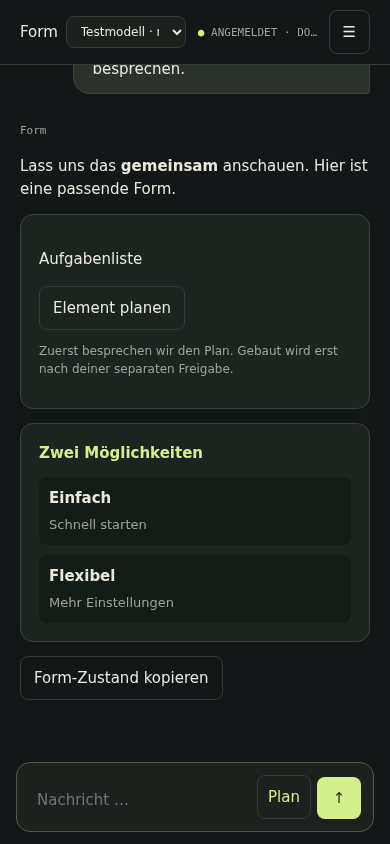
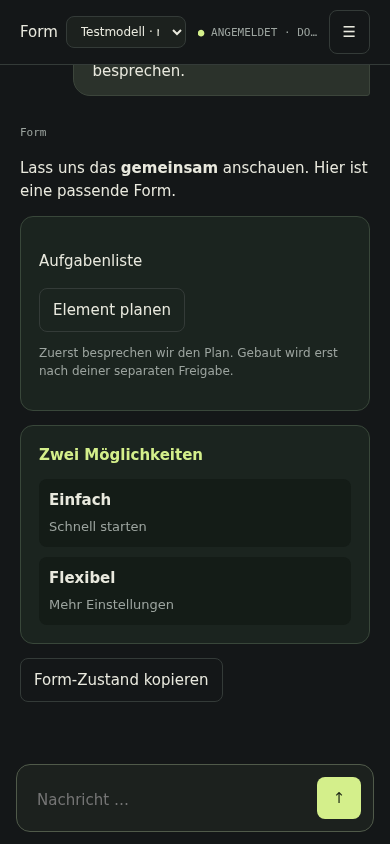
fix(planning): replace global Plan with contextual guided entry

diff --git a/index.html b/index.html
@@ -114,7 +114,7 @@ dialog::backdrop{background:rgba(10,12,11,.7)}
 @media(prefers-reduced-motion:reduce){*,*::before,*::after{scroll-behavior:auto!important;animation:none!important;transition:none!important}.sketch path,.sketch circle,.sketch line,.sketch polygon{stroke-dashoffset:0}.think .wire line{opacity:1;transform:none}.site .block,.site .trolley,.site .load{animation:none!important;opacity:1;transform:none}}
 .build-model{display:flex;align-items:center;gap:10px;margin:14px 0;font-size:12px;color:var(--muted)}.build-model select{max-width:220px;background:#141b19;border:1px solid var(--line);color:var(--ink);border-radius:8px;padding:8px}
 #formsdialog,#usersdialog{max-width:min(850px,94vw)}#formsdialog .dlghead,#usersdialog .dlghead{position:sticky;top:0;background:#1b211d;padding:12px 0;z-index:2}.library-row details{margin:12px 0}.management-form label:has(input[type=checkbox]){display:flex;align-items:center;gap:8px}.form-preview.form-metric>p{font-size:16px}
-.settings-grid{display:grid;grid-template-columns:repeat(2,minmax(0,1fr));gap:12px;margin-top:20px}.settings-grid button{padding:20px;text-align:left}.management-form{display:grid;gap:14px;margin-top:24px}.management-form label{display:grid;gap:6px;font-size:13px}.management-form input:not([type=checkbox]),.management-form textarea,.management-form select{width:100%;background:#151b1b;color:var(--ink);border:1px solid var(--line);padding:10px;border-radius:8px;font:inherit}.library-row,.user-row{border:1px solid var(--line);border-radius:12px;padding:16px;margin:14px 0}.row-actions{display:flex;gap:8px;flex-wrap:wrap}.row-actions button{font-size:12px}.danger{color:#edaa9d}#formsdialog,#usersdialog{width:min(850px,94vw);max-height:90dvh;overflow:auto}#userslist{max-height:none}#formslist{display:grid;grid-template-columns:repeat(2,minmax(0,1fr));gap:12px}#formslist .library-row{margin:0;min-width:0}#planbtn{color:var(--lime);padding:10px;flex-shrink:0}.chat-form{border:1px solid #39473a;background:#1b241f;border-radius:13px;padding:18px;margin:14px 0;animation:form-appear .28s ease-out;overflow-wrap:anywhere}.chat-form>strong{color:var(--lime)}.chat-form p{white-space:pre-wrap;line-height:1.5}.form-items{display:grid;gap:10px;margin-top:12px}.form-item{padding:10px;background:#141c17;border-radius:8px}.form-item p{margin:6px 0 0;font-size:13px;color:var(--muted)}.form-compare .form-items{grid-template-columns:repeat(2,minmax(0,1fr))}.form-metric>p{font-size:28px}.form-list input{margin-right:8px;accent-color:var(--lime)}.form-preview{font-size:12px;padding:12px}.form-preview .form-items{display:none}.form-proposal{border-style:dashed}@keyframes form-appear{from{opacity:0;transform:translateY(8px)}to{opacity:1;transform:none}}@media(prefers-reduced-motion:reduce){.chat-form{animation:none}}@media(max-width:600px){#formslist{grid-template-columns:1fr}.form-compare .form-items{grid-template-columns:1fr}.dlg{padding:18px}.composer{gap:6px}.composer textarea{min-width:0}.row-actions button{min-height:40px}}
+.settings-grid{display:grid;grid-template-columns:repeat(2,minmax(0,1fr));gap:12px;margin-top:20px}.settings-grid button{padding:20px;text-align:left}.management-form{display:grid;gap:14px;margin-top:24px}.management-form label{display:grid;gap:6px;font-size:13px}.management-form input:not([type=checkbox]),.management-form textarea,.management-form select{width:100%;background:#151b1b;color:var(--ink);border:1px solid var(--line);padding:10px;border-radius:8px;font:inherit}.library-row,.user-row{border:1px solid var(--line);border-radius:12px;padding:16px;margin:14px 0}.row-actions{display:flex;gap:8px;flex-wrap:wrap}.row-actions button{font-size:12px}.danger{color:#edaa9d}#formsdialog,#usersdialog{width:min(850px,94vw);max-height:90dvh;overflow:auto}#userslist{max-height:none}#formslist{display:grid;grid-template-columns:repeat(2,minmax(0,1fr));gap:12px}#formslist .library-row{margin:0;min-width:0}.chat-form{border:1px solid #39473a;background:#1b241f;border-radius:13px;padding:18px;margin:14px 0;animation:form-appear .28s ease-out;overflow-wrap:anywhere}.chat-form>strong{color:var(--lime)}.chat-form p{white-space:pre-wrap;line-height:1.5}.form-items{display:grid;gap:10px;margin-top:12px}.form-item{padding:10px;background:#141c17;border-radius:8px}.form-item p{margin:6px 0 0;font-size:13px;color:var(--muted)}.form-compare .form-items{grid-template-columns:repeat(2,minmax(0,1fr))}.form-metric>p{font-size:28px}.form-list input{margin-right:8px;accent-color:var(--lime)}.form-preview{font-size:12px;padding:12px}.form-preview .form-items{display:none}.form-proposal{border-style:dashed}@keyframes form-appear{from{opacity:0;transform:translateY(8px)}to{opacity:1;transform:none}}@media(prefers-reduced-motion:reduce){.chat-form{animation:none}}@media(max-width:600px){#formslist{grid-template-columns:1fr}.form-compare .form-items{grid-template-columns:1fr}.dlg{padding:18px}.composer{gap:6px}.composer textarea{min-width:0}.row-actions button{min-height:40px}}
 
 #sidebar{gap:14px}@media(max-height:650px){#sidebar{gap:8px;padding:16px}#sidebar .brand{font-size:22px}#sidebar .element-subnav{margin-bottom:0}}
 /* Unified management surfaces: scoped away from generated Element iframes. */
@@ -122,4 +122,4 @@ dialog input:not([type=checkbox]):not([type=radio]),dialog textarea,dialog selec
 dialog textarea{resize:none;min-height:88px;max-height:360px;overflow-y:auto}dialog label{display:grid;gap:7px;margin:12px 0;font-size:13px}dialog label:has(input[type=checkbox]){display:flex;align-items:center;gap:9px}dialog form{min-width:0}dialog input[type=checkbox]{accent-color:var(--lime)}dialog .library-row{overflow-wrap:anywhere}#buglist textarea{margin:12px 0}#buglist select{max-width:220px}.profile-button{border:0;text-align:left;padding:8px 0;color:var(--muted)}.sidebottom .tools{display:block}.sidebottom .tools button{width:100%}.library-nav{flex-shrink:0;text-align:left}.element-subnav{display:flex;gap:6px;flex-shrink:0;margin:0 0 10px}.element-subnav[hidden]{display:none}.element-subnav button{flex:1;padding:7px;font-size:12px}
 #preferences{width:min(1000px,96vw);height:min(800px,92dvh);max-width:none;padding:0;overflow:hidden}#preferences>.dlg{height:100%;display:flex;flex-direction:column;padding:24px;min-height:0}.settings-layout{display:grid;grid-template-columns:190px minmax(0,1fr);gap:28px;flex:1;min-height:0;margin-top:22px}.settings-nav{display:flex;flex-direction:column;gap:6px;overflow:auto}.settings-nav button{text-align:left;flex-shrink:0;border-color:transparent}.settings-nav button[aria-current=true]{background:#293426;border-color:#61754b;color:var(--lime)}.settings-content{overflow:auto;min-width:0;min-height:0;padding:0 8px 20px 0;overscroll-behavior:contain}#preferences .settings-pane{position:static;margin:0;width:100%;max-width:none;max-height:none;border:0;padding:0;background:transparent;color:inherit;box-shadow:none;overflow:visible}#preferences .settings-pane[hidden]{display:none!important}#preferences .settings-pane:not([hidden]){display:block}#preferences .settings-pane>.dlg{padding:0}#preferences .settings-pane h2{margin-top:0;font-size:20px}#preferences .settings-pane .dlghead{margin-bottom:20px}.settings-pane form{display:grid;gap:4px}.settings-pane form>button{justify-self:start;margin-top:10px}.settings-pane .notice{overflow-wrap:anywhere}.settings-pane .notice button{margin:4px}
 @media(max-width:600px){#preferences{width:100vw;height:100dvh;max-height:100dvh;border-radius:0;border:0}#preferences>.dlg{padding:18px 16px}.settings-layout{grid-template-columns:1fr;grid-template-rows:auto minmax(0,1fr);gap:18px;margin-top:16px}.settings-nav{display:grid;grid-template-columns:repeat(2,minmax(0,1fr));overflow:visible;padding-bottom:0}.settings-nav button{white-space:normal;min-height:42px;padding:8px 10px;font-size:13px}.settings-content{padding-right:0}.settings-pane .dlghead{align-items:center}.settings-pane .dlghead strong{min-width:0}.settings-pane textarea{font-size:16px}}
-</style></head><body><div class="app"><aside id="sidebar"><div class="brand"><span>⌑</span>form</div><button id="new">＋ Neuer Chat</button><div class="navtabs" role="tablist" aria-label="Sammlungen"><button id="elements-tab" role="tab" aria-selected="false" aria-controls="elements-list">Elemente</button><button id="chats-tab" role="tab" aria-selected="true" aria-controls="sessions">Chats</button></div><nav class="sessions hidden" id="elements-list" role="tabpanel" aria-labelledby="elements-tab"></nav><nav class="sessions" id="sessions" role="tabpanel" aria-labelledby="chats-tab" aria-label="Gespeicherte Chats"></nav><div class="sidebottom"><div class="tools"><button id="formsbtn">Formen</button><button id="preferencesbtn">Einstellungen</button><button id="bugbtn">Bug melden</button><button id="logout">Abmelden</button></div><p><span id="whoami"></span></p></div></aside><main><header><div style="display:flex;align-items:center;gap:15px"><span>Form</span></div><div style="display:flex;align-items:center;gap:12px"><select id="model" class="hidden" aria-label="Chatmodell wählen"></select><button id="settingsbtn" aria-label="Modelle verwalten">⚙</button><span class="status"><b>●</b> <span id="statuslabel">STARTET</span></span></div><button id="mobile" aria-label="Sitzungen öffnen" aria-expanded="false">☰</button></header><div id="feed" class="feed" tabindex="0" aria-label="Gespräch"></div><div class="composer-wrap"><div id="quickbar" class="quickbar hidden" aria-label="Angepinnte Elemente"></div><div id="refchip" class="refchip hidden"></div><form id="composer" class="composer"><textarea id="prompt" rows="1" maxlength="2000" aria-label="Nachricht" placeholder="Nachricht …"></textarea><button type="button" id="planbtn" title="Aus der Besprechung einen Blueprint erstellen">Plan</button><button class="send" id="send" aria-label="Nachricht senden">↑</button><button type="button" id="stop" class="hidden">Stoppen</button></form><div id="live" class="sr-only" aria-live="polite"></div></div></main></div><dialog id="login" aria-label="Anmeldung"><div class="dlg"><div class="dlghead"><strong>Form · Anmelden</strong></div><div id="loginerr" class="notice error hidden"></div><form id="loginform"><label>Benutzername <input name="username" required minlength="3" maxlength="32" autocomplete="username"></label><label>Passwort <input name="password" type="password" required autocomplete="current-password"></label><button>Anmelden</button></form><form id="regform" class="hidden"><label>Benutzername <input name="username" required minlength="3" maxlength="32" autocomplete="username"></label><label>Passwort <input name="password" type="password" required minlength="8" maxlength="200" autocomplete="new-password"></label><label>Passwort wiederholen <input name="password2" type="password" required minlength="8" maxlength="200" autocomplete="new-password"></label><button>Registrieren</button></form><div class="ovfoot" style="margin-top:14px"><button id="switchreg" class="hidden">Neu registrieren</button></div></div></dialog><dialog id="settings" aria-label="Modelle verwalten"><div class="dlg"><div class="dlghead"><strong>Modelle</strong><button id="closesettings" aria-label="Einstellungen schliessen">✕</button></div><div id="modellist"></div><form id="addmodel"><div class="eyebrow">Modell hinzufügen</div><label>Bezeichnung <input name="label" required maxlength="60" placeholder="z. B. z.ai"></label><label>Base-URL <input name="baseUrl" required maxlength="200" placeholder="https://api.z.ai/v1"></label><label>Modell-ID <input name="model" required maxlength="100" placeholder="glm-4.6"></label><label>API-Key <input name="apiKey" type="password" required minlength="6" maxlength="400" autocomplete="off"></label><button>Hinzufügen</button></form></div></dialog><dialog id="overlay" aria-label="Elementansicht"><div class="dlg ovdlg" id="ovcontent"></div></dialog><dialog id="mcpdialog" aria-label="MCP-Verbindungen"><div class="dlg"><div class="dlghead"><strong>Verbindungen</strong><button id="mcpclose">✕</button></div><button type="button" id="httpbtn">HTTP / API</button><div id="mcplist"></div><form id="mcpadd"><label>Name<input name="name" required maxlength="80"></label><label>MCP-Adresse<input name="url" type="url" required></label><label>Bearer-Token<input name="token" type="password" autocomplete="off"></label><button>Hinzufügen</button></form></div></dialog><div id="toolapprovals" style="position:fixed;bottom:90px;right:16px;z-index:30;max-width:min(420px,90vw);max-height:60vh;overflow:auto"></div><dialog id="memorydialog" aria-label="Erinnerungen"><div class="dlg"><div class="dlghead"><strong>Memory</strong><button id="memoryclose">✕</button></div><label><input type="checkbox" id="memoryenabled"> Im Chat verwenden</label><input id="memorysearch" placeholder="Suchen" aria-label="Erinnerungen suchen"><div id="memorylist"></div><form id="memoryadd"><label>Erinnerung<textarea name="content" required maxlength="4000"></textarea></label><label>Projekt<input name="project" maxlength="100"></label><button>Speichern</button></form></div></dialog><dialog id="httpdialog" aria-label="HTTP APIs"><div class="dlg"><div class="dlghead"><strong>HTTP / API</strong><button id="httpclose">✕</button></div><div id="httplist"></div><form id="httpadd"><label>Name<input name="name" required maxlength="80"></label><label>HTTPS-Endpunkt<input name="url" type="url" required placeholder="https://api.example.com/data"></label><label>Methode<select name="method"><option>GET</option><option>POST</option><option>PUT</option><option>PATCH</option><option>DELETE</option></select></label><label>Geheime Header (JSON)<textarea name="headers" placeholder='{"Authorization":"Bearer …"}'></textarea></label><button>Hinzufügen</button></form></div></dialog><dialog id="usersdialog" aria-label="Benutzer verwalten"><div class="dlg"><div class="dlghead"><strong>Benutzer</strong><button id="usersclose" aria-label="Benutzerverwaltung schliessen">✕</button></div><div id="userslist"></div><form id="useradd"><div class="eyebrow">Benutzer erstellen</div><label>Benutzername<input name="username" required minlength="3" maxlength="32" autocomplete="off"></label><label>Startpasswort<input name="password" type="password" required minlength="8" maxlength="200" autocomplete="new-password"></label><label>Rolle<select name="role"><option value="user">Benutzer</option><option value="admin">Admin</option></select></label><button>Benutzer erstellen</button><p id="useraddstatus" role="status"></p></form></div></dialog><dialog id="preferences" aria-label="Einstellungen"><div class="dlg"><div class="dlghead"><strong>Einstellungen</strong><button id="preferencesclose">✕</button></div><p class="small">Modelle, Verbindungen und dein Konto.</p><nav class="settings-grid"><button id="settingsbtn2">Modelle</button><button id="mcpbtn">Verbindungen</button><button id="memorybtn">Memory</button><button id="usersbtn" class="hidden">Benutzer</button></nav></div></dialog><dialog id="formsdialog" aria-label="Formen verwalten"><div class="dlg"><div class="dlghead"><strong>Formen</strong><button id="formsclose">✕</button></div><p class="small">Wiederverwendbare Bausteine für deinen Chat. Inhalte kommen von Form, die Darstellung steht schon bereit.</p><button id="formnew">Neue Form</button><div id="formslist"></div><form id="formeditor" class="management-form hidden"><h3>Form gestalten</h3><label>Name<input name="name" required maxlength="80"></label><label>Baustein<select name="layout"><option value="note">Hinweis</option><option value="list">Checkliste</option><option value="steps">Schritte</option><option value="compare">Vergleich</option><option value="metric">Kennzahl</option><option value="choices">Auswahlfrage</option><option value="custom">Eigene gebaute Vorlage</option></select></label><label>Wann und wie verwenden?<textarea name="instructions" required maxlength="1500" rows="4"></textarea></label><label><input type="checkbox" name="enabled" checked> Im Chat verfügbar</label><button>Form speichern</button></form></div></dialog><dialog id="useraction" aria-label="Benutzer bearbeiten"><div class="dlg"><div class="dlghead"><strong id="useractiontitle">Benutzer</strong><button id="useractionclose">✕</button></div><form id="useractionform" class="management-form"><p id="useractionhint"></p><label id="userpasswordlabel">Neues Passwort<input name="password" type="password" minlength="8" maxlength="200" autocomplete="new-password"></label><label id="userconfirmlabel">Benutzername zur Bestätigung<input name="confirm" autocomplete="off"></label><button id="useractionsubmit">Bestätigen</button><p id="useractionstatus" role="status"></p></form></div></dialog><dialog id="bugdialog" aria-label="Bug melden"><div class="dlg"><div class="dlghead"><strong>Bug melden</strong><button id="bugclose" aria-label="Schliessen">✕</button></div><p class="small">Sichtbar für dich und die Verwaltung. Keine Passwörter oder API-Schlüssel eintragen. Chat-Inhalte werden nicht automatisch mitgeschickt.</p><form id="bugform" class="management-form"><label>Kurzbeschreibung<input name="title" required maxlength="160"></label><label>Was passiert? Schritte zum Nachstellen<textarea name="description" required maxlength="5000" rows="4"></textarea></label><label>Was sollte passieren?<textarea name="expected" maxlength="2000"></textarea></label><label><input type="checkbox" name="context"> Aktuellen Chat als Referenz hinzufügen (nur ID)</label><button id="bugsubmit">Bug einsenden</button><p id="bugfeedback" role="status"></p></form><h3>Meldungen</h3><button id="bugrefresh">Aktualisieren</button><div id="buglist"></div></div></dialog></body></html>
+</style></head><body><div class="app"><aside id="sidebar"><div class="brand"><span>⌑</span>form</div><button id="new">＋ Neuer Chat</button><div class="navtabs" role="tablist" aria-label="Sammlungen"><button id="elements-tab" role="tab" aria-selected="false" aria-controls="elements-list">Elemente</button><button id="chats-tab" role="tab" aria-selected="true" aria-controls="sessions">Chats</button></div><nav class="sessions hidden" id="elements-list" role="tabpanel" aria-labelledby="elements-tab"></nav><nav class="sessions" id="sessions" role="tabpanel" aria-labelledby="chats-tab" aria-label="Gespeicherte Chats"></nav><div class="sidebottom"><div class="tools"><button id="formsbtn">Formen</button><button id="preferencesbtn">Einstellungen</button><button id="bugbtn">Bug melden</button><button id="logout">Abmelden</button></div><p><span id="whoami"></span></p></div></aside><main><header><div style="display:flex;align-items:center;gap:15px"><span>Form</span></div><div style="display:flex;align-items:center;gap:12px"><select id="model" class="hidden" aria-label="Chatmodell wählen"></select><button id="settingsbtn" aria-label="Modelle verwalten">⚙</button><span class="status"><b>●</b> <span id="statuslabel">STARTET</span></span></div><button id="mobile" aria-label="Sitzungen öffnen" aria-expanded="false">☰</button></header><div id="feed" class="feed" tabindex="0" aria-label="Gespräch"></div><div class="composer-wrap"><div id="quickbar" class="quickbar hidden" aria-label="Angepinnte Elemente"></div><div id="refchip" class="refchip hidden"></div><form id="composer" class="composer"><textarea id="prompt" rows="1" maxlength="2000" aria-label="Nachricht" placeholder="Nachricht …"></textarea><button class="send" id="send" aria-label="Nachricht senden">↑</button><button type="button" id="stop" class="hidden">Stoppen</button></form><div id="live" class="sr-only" aria-live="polite"></div></div></main></div><dialog id="login" aria-label="Anmeldung"><div class="dlg"><div class="dlghead"><strong>Form · Anmelden</strong></div><div id="loginerr" class="notice error hidden"></div><form id="loginform"><label>Benutzername <input name="username" required minlength="3" maxlength="32" autocomplete="username"></label><label>Passwort <input name="password" type="password" required autocomplete="current-password"></label><button>Anmelden</button></form><form id="regform" class="hidden"><label>Benutzername <input name="username" required minlength="3" maxlength="32" autocomplete="username"></label><label>Passwort <input name="password" type="password" required minlength="8" maxlength="200" autocomplete="new-password"></label><label>Passwort wiederholen <input name="password2" type="password" required minlength="8" maxlength="200" autocomplete="new-password"></label><button>Registrieren</button></form><div class="ovfoot" style="margin-top:14px"><button id="switchreg" class="hidden">Neu registrieren</button></div></div></dialog><dialog id="settings" aria-label="Modelle verwalten"><div class="dlg"><div class="dlghead"><strong>Modelle</strong><button id="closesettings" aria-label="Einstellungen schliessen">✕</button></div><div id="modellist"></div><form id="addmodel"><div class="eyebrow">Modell hinzufügen</div><label>Bezeichnung <input name="label" required maxlength="60" placeholder="z. B. z.ai"></label><label>Base-URL <input name="baseUrl" required maxlength="200" placeholder="https://api.z.ai/v1"></label><label>Modell-ID <input name="model" required maxlength="100" placeholder="glm-4.6"></label><label>API-Key <input name="apiKey" type="password" required minlength="6" maxlength="400" autocomplete="off"></label><button>Hinzufügen</button></form></div></dialog><dialog id="overlay" aria-label="Elementansicht"><div class="dlg ovdlg" id="ovcontent"></div></dialog><dialog id="mcpdialog" aria-label="MCP-Verbindungen"><div class="dlg"><div class="dlghead"><strong>Verbindungen</strong><button id="mcpclose">✕</button></div><button type="button" id="httpbtn">HTTP / API</button><div id="mcplist"></div><form id="mcpadd"><label>Name<input name="name" required maxlength="80"></label><label>MCP-Adresse<input name="url" type="url" required></label><label>Bearer-Token<input name="token" type="password" autocomplete="off"></label><button>Hinzufügen</button></form></div></dialog><div id="toolapprovals" style="position:fixed;bottom:90px;right:16px;z-index:30;max-width:min(420px,90vw);max-height:60vh;overflow:auto"></div><dialog id="memorydialog" aria-label="Erinnerungen"><div class="dlg"><div class="dlghead"><strong>Memory</strong><button id="memoryclose">✕</button></div><label><input type="checkbox" id="memoryenabled"> Im Chat verwenden</label><input id="memorysearch" placeholder="Suchen" aria-label="Erinnerungen suchen"><div id="memorylist"></div><form id="memoryadd"><label>Erinnerung<textarea name="content" required maxlength="4000"></textarea></label><label>Projekt<input name="project" maxlength="100"></label><button>Speichern</button></form></div></dialog><dialog id="httpdialog" aria-label="HTTP APIs"><div class="dlg"><div class="dlghead"><strong>HTTP / API</strong><button id="httpclose">✕</button></div><div id="httplist"></div><form id="httpadd"><label>Name<input name="name" required maxlength="80"></label><label>HTTPS-Endpunkt<input name="url" type="url" required placeholder="https://api.example.com/data"></label><label>Methode<select name="method"><option>GET</option><option>POST</option><option>PUT</option><option>PATCH</option><option>DELETE</option></select></label><label>Geheime Header (JSON)<textarea name="headers" placeholder='{"Authorization":"Bearer …"}'></textarea></label><button>Hinzufügen</button></form></div></dialog><dialog id="usersdialog" aria-label="Benutzer verwalten"><div class="dlg"><div class="dlghead"><strong>Benutzer</strong><button id="usersclose" aria-label="Benutzerverwaltung schliessen">✕</button></div><div id="userslist"></div><form id="useradd"><div class="eyebrow">Benutzer erstellen</div><label>Benutzername<input name="username" required minlength="3" maxlength="32" autocomplete="off"></label><label>Startpasswort<input name="password" type="password" required minlength="8" maxlength="200" autocomplete="new-password"></label><label>Rolle<select name="role"><option value="user">Benutzer</option><option value="admin">Admin</option></select></label><button>Benutzer erstellen</button><p id="useraddstatus" role="status"></p></form></div></dialog><dialog id="preferences" aria-label="Einstellungen"><div class="dlg"><div class="dlghead"><strong>Einstellungen</strong><button id="preferencesclose">✕</button></div><p class="small">Modelle, Verbindungen und dein Konto.</p><nav class="settings-grid"><button id="settingsbtn2">Modelle</button><button id="mcpbtn">Verbindungen</button><button id="memorybtn">Memory</button><button id="usersbtn" class="hidden">Benutzer</button></nav></div></dialog><dialog id="formsdialog" aria-label="Formen verwalten"><div class="dlg"><div class="dlghead"><strong>Formen</strong><button id="formsclose">✕</button></div><p class="small">Wiederverwendbare Bausteine für deinen Chat. Inhalte kommen von Form, die Darstellung steht schon bereit.</p><button id="formnew">Neue Form</button><div id="formslist"></div><form id="formeditor" class="management-form hidden"><h3>Form gestalten</h3><label>Name<input name="name" required maxlength="80"></label><label>Baustein<select name="layout"><option value="note">Hinweis</option><option value="list">Checkliste</option><option value="steps">Schritte</option><option value="compare">Vergleich</option><option value="metric">Kennzahl</option><option value="choices">Auswahlfrage</option><option value="custom">Eigene gebaute Vorlage</option></select></label><label>Wann und wie verwenden?<textarea name="instructions" required maxlength="1500" rows="4"></textarea></label><label><input type="checkbox" name="enabled" checked> Im Chat verfügbar</label><button>Form speichern</button></form></div></dialog><dialog id="useraction" aria-label="Benutzer bearbeiten"><div class="dlg"><div class="dlghead"><strong id="useractiontitle">Benutzer</strong><button id="useractionclose">✕</button></div><form id="useractionform" class="management-form"><p id="useractionhint"></p><label id="userpasswordlabel">Neues Passwort<input name="password" type="password" minlength="8" maxlength="200" autocomplete="new-password"></label><label id="userconfirmlabel">Benutzername zur Bestätigung<input name="confirm" autocomplete="off"></label><button id="useractionsubmit">Bestätigen</button><p id="useractionstatus" role="status"></p></form></div></dialog><dialog id="bugdialog" aria-label="Bug melden"><div class="dlg"><div class="dlghead"><strong>Bug melden</strong><button id="bugclose" aria-label="Schliessen">✕</button></div><p class="small">Sichtbar für dich und die Verwaltung. Keine Passwörter oder API-Schlüssel eintragen. Chat-Inhalte werden nicht automatisch mitgeschickt.</p><form id="bugform" class="management-form"><label>Kurzbeschreibung<input name="title" required maxlength="160"></label><label>Was passiert? Schritte zum Nachstellen<textarea name="description" required maxlength="5000" rows="4"></textarea></label><label>Was sollte passieren?<textarea name="expected" maxlength="2000"></textarea></label><label><input type="checkbox" name="context"> Aktuellen Chat als Referenz hinzufügen (nur ID)</label><button id="bugsubmit">Bug einsenden</button><p id="bugfeedback" role="status"></p></form><h3>Meldungen</h3><button id="bugrefresh">Aktualisieren</button><div id="buglist"></div></div></dialog></body></html>

diff --git a/src/app.js b/src/app.js
@@ -582,7 +582,7 @@ function render(){stopEntry();
         else{
           const turnJob=pendingJobFor(m.id);const answering=['plan','chat'].includes(turnJob?.kind)&&ACTIVE_JOB.includes(turnJob.state);const turnProse=answering?(turnJob.prose||m.prose):m.prose;
           if(turnProse){const p=document.createElement('div');p.className='prose'+(answering?' writing':'');renderMarkdown(p,turnProse);article.append(p)}
-          if(m===s.messages.filter(x=>x.role==='assistant').at(-1)&&m.forms?.planningOffer?.version===1){const offer=document.createElement('section');offer.className='planning-offer chat-form';const title=document.createElement('p');title.textContent=m.forms.planningOffer.title;const button=document.createElement('button');button.type='button';button.className='planning-offer-start';button.textContent=s.blueprint?'Plan weiterentwickeln':'Element planen';button.disabled=[...jobs.values()].some(j=>j.conversationId===s.id&&j.kind==='plan'&&ACTIVE_JOB.includes(j.state));button.onclick=async()=>{if(db.current!==s.id||button.disabled)return;button.disabled=true;try{await send('Erstelle oder aktualisiere einen Blueprint für das angebotene Element anhand unserer bisherigen Besprechung. Es wird noch nichts gebaut.','plan');}finally{if(button.isConnected)button.disabled=false;}};const hint=document.createElement('p');hint.className='small';hint.textContent='Zuerst besprechen wir den Plan. Gebaut wird erst nach deiner separaten Freigabe.';offer.append(title,button,hint);article.append(offer);}
+          if(m===s.messages.filter(x=>x.role==='assistant').at(-1)&&m.forms?.planningOffer?.version===1){const offer=document.createElement('section');offer.className='planning-offer chat-form';const title=document.createElement('p');title.textContent=m.forms.planningOffer.title;const button=document.createElement('button');button.type='button';button.className='planning-offer-start';button.textContent=s.blueprint?'Plan weiterentwickeln':'Element planen';button.disabled=[...jobs.values()].some(j=>j.conversationId===s.id&&j.kind==='plan'&&ACTIVE_JOB.includes(j.state));button.onclick=async()=>{if(db.current!==s.id||button.disabled)return;button.disabled=true;try{await send($('#prompt').value.trim()||'Erstelle oder aktualisiere einen Blueprint für das angebotene Element anhand unserer bisherigen Besprechung. Es wird noch nichts gebaut.','plan');}finally{if(button.isConnected)button.disabled=false;}};const hint=document.createElement('p');hint.className='small';hint.textContent='Zuerst besprechen wir den Plan. Gebaut wird erst nach deiner separaten Freigabe.';offer.append(title,button,hint);article.append(offer);}
           if(m.forms){for(const f of m.forms.items||[]){if(f.layout==='custom'&&f.template){const view=renderUI({...f.template,state:{...f.template.state,...f.data}},{onSuggest:fillSuggestion,onError:toast,onState:state=>{f.data=state;save();uiRequest('/api/forms/state',{messageId:m.id,index:m.forms.items.indexOf(f),state}).catch(e=>toast(e.message));}});views.push(view);article.append(view.element,formsUI.copyStateButton(f,m.id,m.forms.items.indexOf(f)));}else article.append(formCard(f,{suggest:fillSuggestion,onError:toast,onState:async state=>{await uiRequest('/api/forms/state',{messageId:m.id,index:m.forms.items.indexOf(f),state});f.data=state;save();}}),formsUI.copyStateButton(f,m.id,m.forms.items.indexOf(f)));}for(const e of m.forms.edits||[])article.append(formsUI.proposal(e,m.id,m.forms.edits.indexOf(e)));}
           const job=pendingJobFor(entry.element?.id||m.id);
           if(job&&job.kind==='create'&&!m.render&&!m.error){
@@ -1014,7 +1014,7 @@ $('#addmodel').onsubmit=async e=>{
     f.reset();await refreshModels();toast('Modell gespeichert: '+d.label);
   }catch(err){toast('Hinzufügen fehlgeschlagen: '+err.message)}
 };
-$('#planbtn').onclick=()=>send($('#prompt').value.trim()||'Erstelle einen Blueprint aus unserer bisherigen Besprechung.','plan');
+
 $('#composer').onsubmit=e=>{e.preventDefault();send($('#prompt').value)};
 $('#prompt').onkeydown=e=>{if(e.key==='Enter'&&!e.shiftKey&&!e.isComposing){e.preventDefault();send(e.target.value)}};
 $('#stop').onclick=stop;$('#new').onclick=()=>newSession();
@@ -1132,6 +1132,6 @@ function blueprintEl(s){
       fold.close();s.blueprint=t.blueprint;if(t.job)applyJob(t.job);const currentId=db.current;await loadFromServer();if(db.sessions.some(c=>c.id===currentId))db.current=currentId;renderPreservingScroll();
     }catch(e){start.disabled=false;toast(e.message)}
   };
-  const update=document.createElement('button');update.type='button';update.textContent='Gespräch in Plan übernehmen';update.onclick=()=>send('Aktualisiere den Blueprint anhand unserer bisherigen Besprechung.','plan');
+  const update=document.createElement('button');update.type='button';update.className='blueprint-update';update.textContent='Gespräch in Plan übernehmen';update.disabled=[...jobs.values()].some(j=>j.conversationId===s.id&&j.kind==='plan'&&ACTIVE_JOB.includes(j.state));update.onclick=async()=>{if(db.current!==s.id||update.disabled)return;update.disabled=true;try{await send($('#prompt').value.trim()||'Aktualisiere den Blueprint anhand unserer bisherigen Besprechung.','plan')}finally{if(update.isConnected)update.disabled=false;}};
   const body=document.createElement('div');body.className='blueprint-body';const inner=document.createElement('div');inner.className='blueprint-inner';inner.append(update,summaryLabel,summary);if(questions.length)inner.append(form);inner.append(note,modelLabel,start);body.append(inner);fold=planFold({box,head,body,key:me.id+'-'+bp.id,revision:bp.revision,questions:questions.length});return box;
 }

diff --git a/docs/GUIDED-PLANNING.md b/docs/GUIDED-PLANNING.md
@@ -9,3 +9,12 @@ IMPORTANT remaining acceptance: the legacy composer Plan control remains in this
 Source test logs: docs/test-results/2026-11-08-guided-planning-unit.txt, guided-planning-browser.txt and guided-planning-release.txt with same date prefix. The existing full Blueprint gate passed (130 pass, one optional skip, integration/browser); generic npm test backlog is not claimed fixed.
 
 Verified release: source491cae0, evidencebe3372a. Zero active jobs before form-user restart/save; rollback /opt/form/.rollback/20261108-guided-planning, manifest /opt/form/guided-planning-release.json. No schema, registration, secrets or user product changes. CSP unchanged. Both live routes health200 and exact app SHA256 9e733df403993879faf8c1b2b7eaf6c104736c114825cbdeb80a98836a07cedc verified. Deployed-code disposable desktop/mobile acceptance PASS; screenshots inspected. Report remains working for retiring global Plan and guided refinement acceptance.
+
+
+## Guided-only entry (2026-11-08, release candidate)
+
+The global composer Plan button and its event handler/style are removed. A new plan starts from the latest assistant's contextual offer. The offer accepts an optional composer draft; existing Blueprints keep their explicit “Gespräch in Plan übernehmen” action, now preserving that draft and the selected refinement target. Both actions guard duplicate clicks and stale conversations. Separate build approval is unchanged. Existing saved plans remain usable; no stored user artifacts are migrated.
+
+Dedicated desktop/mobile browser acceptance covers offer -> plan -> explicit build, then selecting the existing Element -> conversational offer -> targeted refinement with no automatic rebuild. Existing Blueprint coverage retains revision/CAS, concurrent planning during an active build and explicit refinement approval. Legacy downstream-focused browser fixtures now seed a persisted assistant offer in their disposable SQLite stores (helper rejects paths outside form-* temp directories); this is not represented as model-generation coverage. The dedicated guided test still obtains the actual offer through mock provider streaming and server persistence.
+
+This does not promise every provider always follows the offer contract. An omitted offer can still require asking Form to propose planning; arbitrary intent is not inferred and no unapproved build is introduced. Generic full-suite baseline failures are outside this slice. Deployment evidence follows only after release gates pass.
